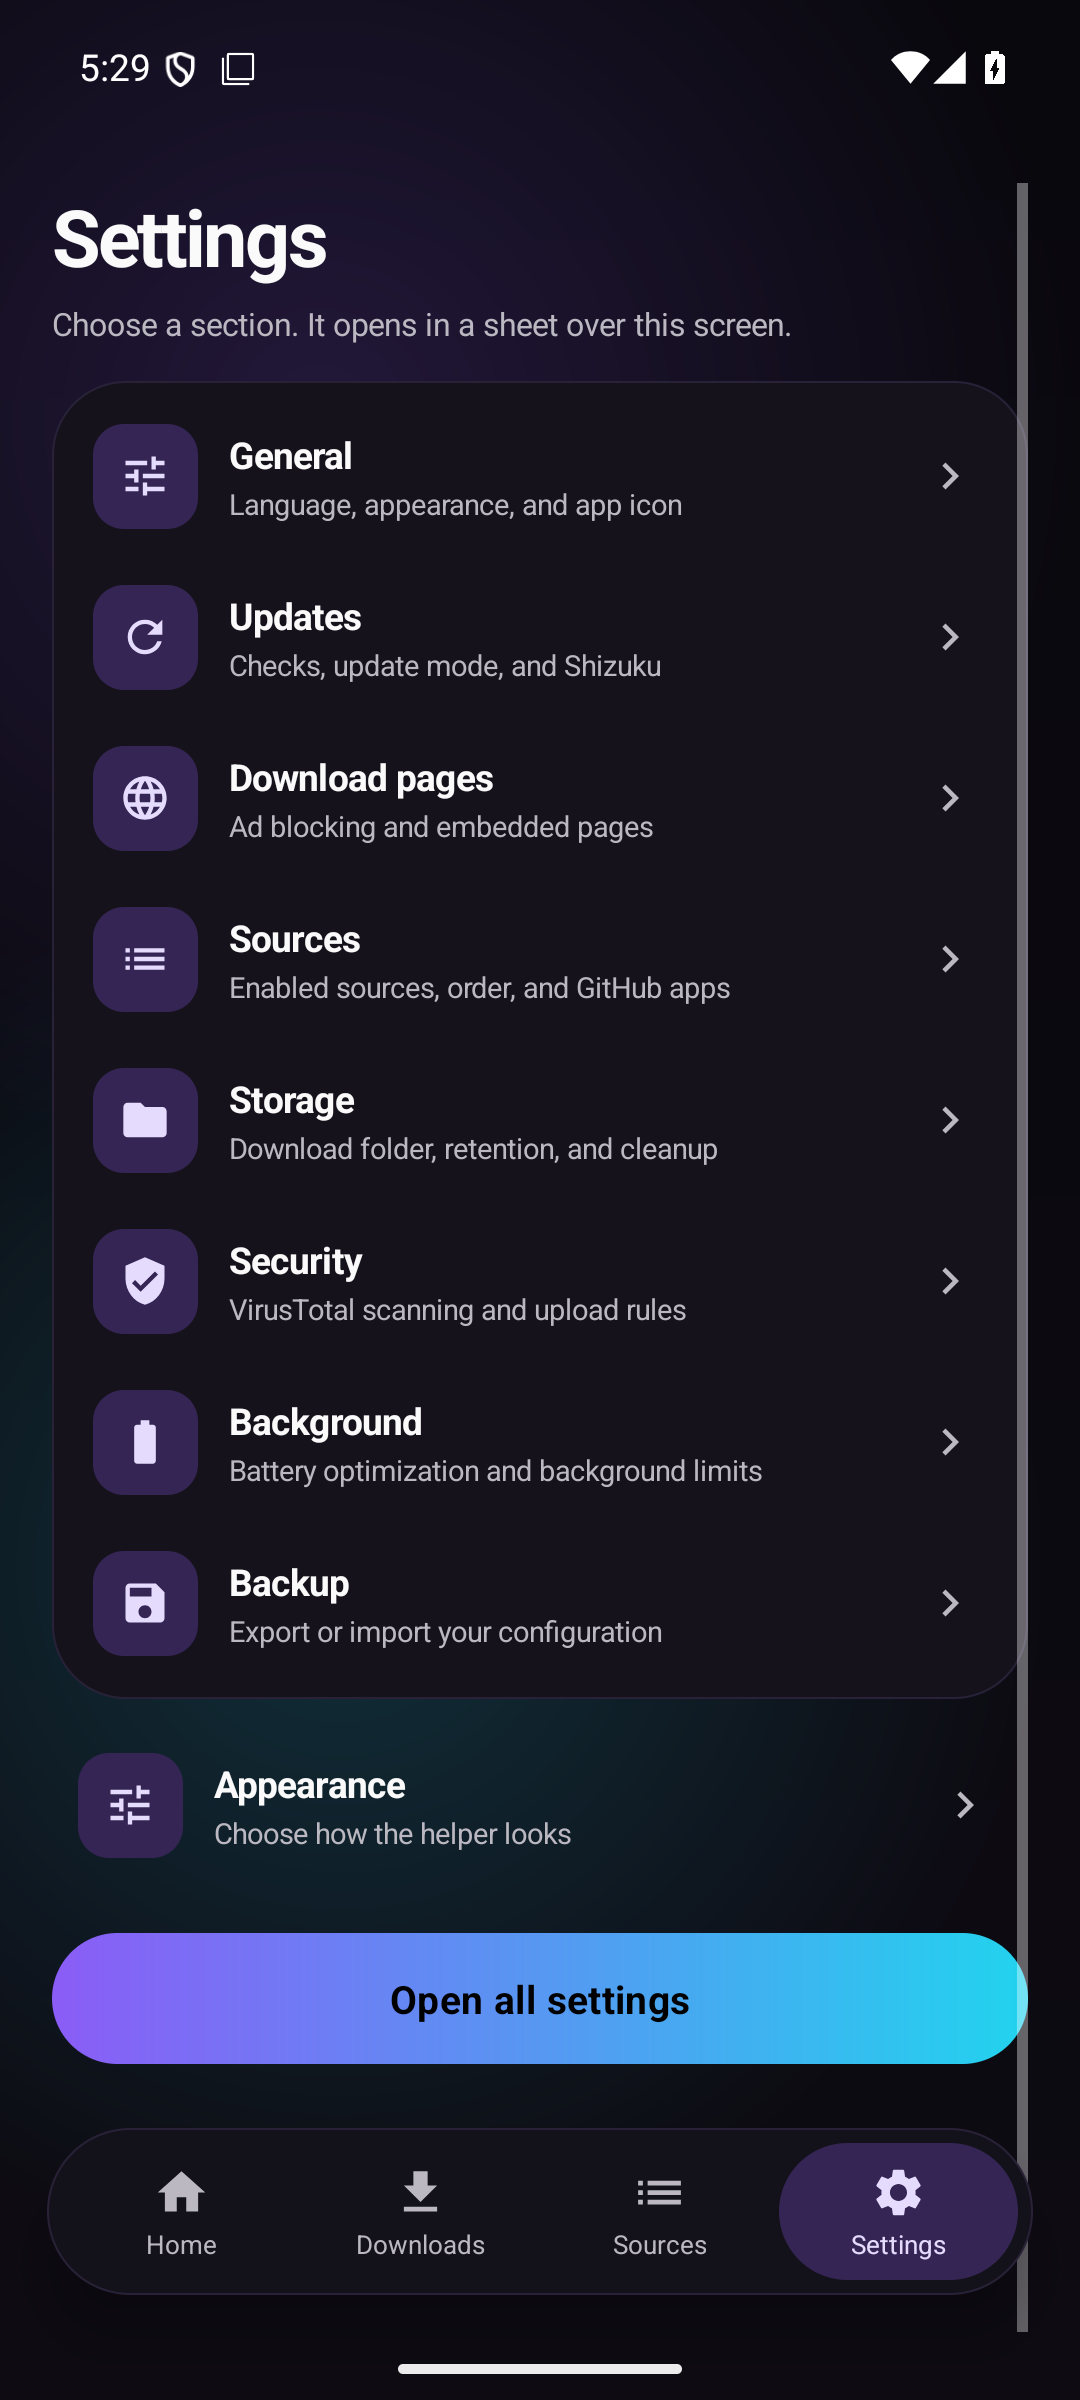
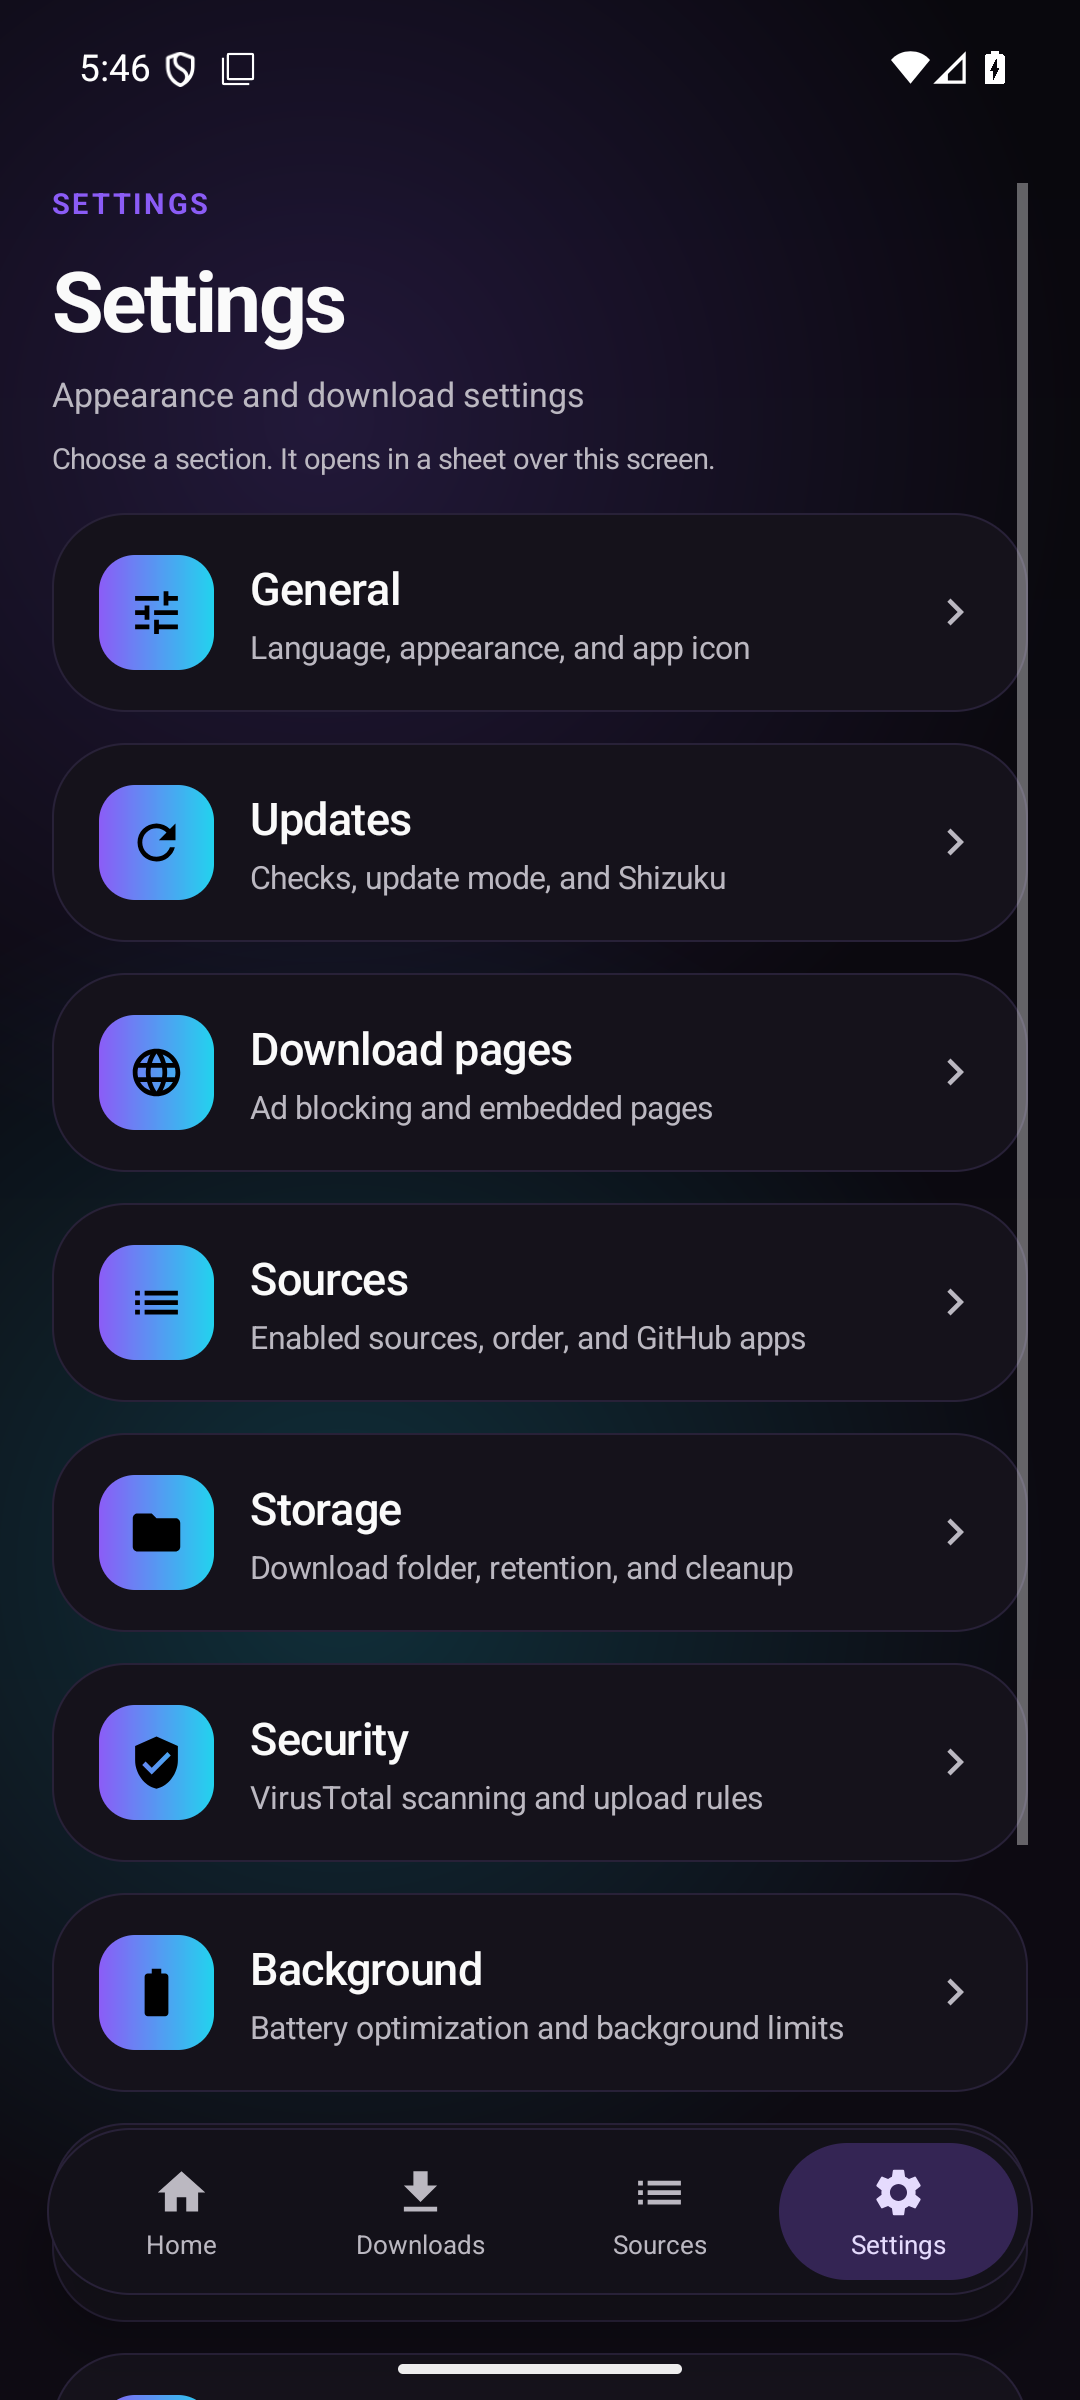
Restyle the in-shell settings tab and drop the open-all shortcut

diff --git a/app/src/main/java/be/alterra/morphehelper/MorphePreviewActivity.java b/app/src/main/java/be/alterra/morphehelper/MorphePreviewActivity.java
@@ -1261,101 +1261,102 @@ public class MorphePreviewActivity extends Activity {
                 ViewGroup.LayoutParams.MATCH_PARENT,
                 ViewGroup.LayoutParams.WRAP_CONTENT));
 
-        root.addView(M3Ui.display(this, getString(R.string.preview_settings), 30, TEXT));
+        root.addView(M3Ui.overline(this,
+                getString(R.string.settings_overline), ACCENT));
+        TextView title = M3Ui.display(this,
+                getString(R.string.preview_settings), 32, TEXT);
+        title.setPadding(0, dp(8), 0, 0);
+        root.addView(title);
+        TextView subtitle = M3Ui.text(this,
+                getString(R.string.settings_subtitle), 13, MUTED, 400);
+        subtitle.setPadding(0, dp(6), 0, 0);
+        root.addView(subtitle);
         TextView hint = M3Ui.text(this,
-                getString(R.string.preview_settings_hint), 12, MUTED, 400);
-        hint.setPadding(0, dp(5), 0, dp(14));
+                getString(R.string.preview_settings_hint), 11, MUTED, 400);
+        hint.setPadding(0, dp(8), 0, dp(2));
         root.addView(hint);
 
-        LinearLayout card = new LinearLayout(this);
-        card.setOrientation(LinearLayout.VERTICAL);
-        card.setPadding(dp(6), dp(6), dp(6), dp(6));
-        card.setBackground(M3Ui.card(this, palette));
-        root.addView(card, new LinearLayout.LayoutParams(
-                ViewGroup.LayoutParams.MATCH_PARENT, ViewGroup.LayoutParams.WRAP_CONTENT));
-
-        addSettingsRow(card, R.drawable.ic_section_general,
+        addSettingsCard(root, R.drawable.ic_section_general,
                 R.string.settings_general, R.string.settings_general_summary,
                 "general");
-        addSettingsRow(card, R.drawable.ic_section_updates,
+        addSettingsCard(root, R.drawable.ic_section_updates,
                 R.string.settings_updates, R.string.settings_updates_summary,
                 "updates");
-        addSettingsRow(card, R.drawable.ic_section_web,
+        addSettingsCard(root, R.drawable.ic_section_web,
                 R.string.settings_web_pages, R.string.settings_web_pages_summary,
                 "web");
-        addSettingsRow(card, R.drawable.ic_section_sources,
+        addSettingsCard(root, R.drawable.ic_section_sources,
                 R.string.settings_sources, R.string.settings_sources_summary,
                 "sources");
-        addSettingsRow(card, R.drawable.ic_section_storage,
+        addSettingsCard(root, R.drawable.ic_section_storage,
                 R.string.settings_storage, R.string.settings_storage_summary,
                 "storage");
-        addSettingsRow(card, R.drawable.ic_section_security,
+        addSettingsCard(root, R.drawable.ic_section_security,
                 R.string.preview_security, R.string.settings_security_summary,
                 "security");
-        addSettingsRow(card, R.drawable.ic_section_battery,
+        addSettingsCard(root, R.drawable.ic_section_battery,
                 R.string.preview_background, R.string.settings_background_summary,
                 "battery");
-        addSettingsRow(card, R.drawable.ic_section_backup,
+        addSettingsCard(root, R.drawable.ic_section_backup,
                 R.string.settings_backup, R.string.settings_backup_summary,
                 "backup");
+        addSettingsActionCard(root, R.drawable.ic_section_general,
+                R.string.preview_settings_appearance,
+                R.string.appearance_subtitle,
+                () -> startActivity(new Intent(this, AppearanceActivity.class)));
 
-        LinearLayout appearanceRow = settingsRow(R.drawable.ic_section_general,
-                getString(R.string.preview_settings_appearance),
-                getString(R.string.appearance_subtitle));
-        appearanceRow.setOnClickListener(v ->
-                startActivity(new Intent(this, AppearanceActivity.class)));
-        LinearLayout.LayoutParams appearanceParams = new LinearLayout.LayoutParams(
-                ViewGroup.LayoutParams.MATCH_PARENT, ViewGroup.LayoutParams.WRAP_CONTENT);
-        appearanceParams.topMargin = dp(10);
-        root.addView(appearanceRow, appearanceParams);
-
-        TextView all = M3Ui.primaryButton(this, palette,
-                getString(R.string.preview_settings_all), 0);
-        all.setOnClickListener(v -> openSettings(null));
-        LinearLayout.LayoutParams allParams = new LinearLayout.LayoutParams(
-                ViewGroup.LayoutParams.MATCH_PARENT, dp(50));
-        allParams.topMargin = dp(18);
-        root.addView(all, allParams);
         addBottomSpacer(root);
         return scroll;
     }
 
-    private void addSettingsRow(LinearLayout card, int iconRes, int titleRes,
-                                int summaryRes, String section) {
-        LinearLayout row = settingsRow(iconRes, getString(titleRes),
-                getString(summaryRes));
-        row.setOnClickListener(v -> openSectionSheet(section));
-        card.addView(row);
+    private void addSettingsCard(LinearLayout root, int iconRes, int titleRes,
+                                 int summaryRes, String section) {
+        addSettingsActionCard(root, iconRes, titleRes, summaryRes,
+                () -> openSectionSheet(section));
     }
 
-    private LinearLayout settingsRow(int iconRes, String title, String summary) {
+    private void addSettingsActionCard(LinearLayout root, int iconRes, int titleRes,
+                                       int summaryRes, Runnable action) {
+        LinearLayout card = new LinearLayout(this);
+        card.setOrientation(LinearLayout.VERTICAL);
+        card.setBackground(M3Ui.card(this, palette));
+        LinearLayout.LayoutParams cardParams = new LinearLayout.LayoutParams(
+                ViewGroup.LayoutParams.MATCH_PARENT, ViewGroup.LayoutParams.WRAP_CONTENT);
+        cardParams.topMargin = dp(12);
+        root.addView(card, cardParams);
+        card.addView(settingsCardHeader(iconRes, getString(titleRes),
+                getString(summaryRes), action));
+    }
+
+    private LinearLayout settingsCardHeader(int iconRes, String title, String summary,
+                                            Runnable action) {
         LinearLayout row = new LinearLayout(this);
         row.setOrientation(LinearLayout.HORIZONTAL);
         row.setGravity(Gravity.CENTER_VERTICAL);
-        row.setPadding(dp(10), dp(11), dp(8), dp(11));
+        row.setPadding(dp(18), dp(16), dp(12), dp(16));
         row.setBackground(new RippleDrawable(ColorStateList.valueOf(palette.ripple),
                 null, null));
         row.setClickable(true);
         row.setFocusable(true);
+        row.setOnClickListener(v -> action.run());
 
         FrameLayout iconTile = new FrameLayout(this);
-        iconTile.setBackground(M3Ui.filled(this,
-                M3Ui.primaryContainer(palette), 12, 0, 0));
+        iconTile.setBackground(M3Ui.brandGradient(this, palette, 14));
         ImageView icon = new ImageView(this);
         icon.setImageResource(iconRes);
-        icon.setColorFilter(M3Ui.onPrimaryContainer(palette));
-        FrameLayout.LayoutParams iconInner = new FrameLayout.LayoutParams(dp(20), dp(20));
+        icon.setColorFilter(palette.onPrimary);
+        FrameLayout.LayoutParams iconInner = new FrameLayout.LayoutParams(dp(22), dp(22));
         iconInner.gravity = Gravity.CENTER;
         iconTile.addView(icon, iconInner);
-        LinearLayout.LayoutParams iconParams = new LinearLayout.LayoutParams(dp(40), dp(40));
-        iconParams.setMarginEnd(dp(12));
+        LinearLayout.LayoutParams iconParams = new LinearLayout.LayoutParams(dp(44), dp(44));
+        iconParams.setMarginEnd(dp(14));
         row.addView(iconTile, iconParams);
 
         LinearLayout labels = new LinearLayout(this);
         labels.setOrientation(LinearLayout.VERTICAL);
-        labels.addView(M3Ui.text(this, title, 14, TEXT, 600));
-        TextView detail = M3Ui.text(this, summary, 11, MUTED, 400);
-        detail.setPadding(0, dp(2), 0, 0);
+        labels.addView(M3Ui.title(this, title, 17, TEXT));
+        TextView detail = M3Ui.text(this, summary, 12, MUTED, 400);
+        detail.setPadding(0, dp(3), 0, 0);
         labels.addView(detail);
         row.addView(labels, new LinearLayout.LayoutParams(
                 0, ViewGroup.LayoutParams.WRAP_CONTENT, 1f));

diff --git a/app/src/androidTest/java/be/alterra/morphehelper/MorphePreviewTest.java b/app/src/androidTest/java/be/alterra/morphehelper/MorphePreviewTest.java
@@ -6,6 +6,7 @@ import static org.junit.Assert.assertTrue;
 
 import android.app.Activity;
 import android.content.Context;
+import android.os.SystemClock;
 import android.view.View;
 import android.view.ViewGroup;
 import android.widget.TextView;
@@ -141,24 +142,44 @@ public class MorphePreviewTest {
         try (ActivityScenario<MorphePreviewActivity> scenario =
                      ActivityScenario.launch(MorphePreviewActivity.class)) {
             scenario.onActivity(activity -> clickTab(activity, "Settings"));
+            waitForTabSlide();
             scenario.onActivity(activity -> clickTab(activity, "Storage"));
-            InstrumentationRegistry.getInstrumentation().waitForIdleSync();
+            SettingsActivity settings = awaitSettingsActivity();
+            assertNotNull("SettingsActivity was not resumed", settings);
+            assertTrue("Section sheet did not use sheet-only mode",
+                    settings.getIntent().getBooleanExtra(
+                            SettingsActivity.EXTRA_SHEET_ONLY, false));
+            settings.finish();
+        }
+    }
+
+    private static SettingsActivity awaitSettingsActivity() {
+        long deadline = SystemClock.uptimeMillis() + 3000L;
+        while (SystemClock.uptimeMillis() < deadline) {
+            final SettingsActivity[] found = new SettingsActivity[1];
             InstrumentationRegistry.getInstrumentation().runOnMainSync(() -> {
                 Collection<Activity> resumed = ActivityLifecycleMonitorRegistry
                         .getInstance().getActivitiesInStage(Stage.RESUMED);
-                SettingsActivity settings = null;
                 for (Activity activity : resumed) {
                     if (activity instanceof SettingsActivity) {
-                        settings = (SettingsActivity) activity;
-                        break;
+                        found[0] = (SettingsActivity) activity;
+                        return;
                     }
                 }
-                assertNotNull("SettingsActivity was not resumed", settings);
-                assertTrue("Section sheet did not use sheet-only mode",
-                        settings.getIntent().getBooleanExtra(
-                                SettingsActivity.EXTRA_SHEET_ONLY, false));
-                settings.finish();
             });
+            if (found[0] != null) {
+                return found[0];
+            }
+            SystemClock.sleep(100L);
+        }
+        return null;
+    }
+
+    private static void waitForTabSlide() {
+        try {
+            Thread.sleep(350);
+        } catch (InterruptedException ignored) {
+            Thread.currentThread().interrupt();
         }
     }
 

diff --git a/docs/V3_DESIGN.md b/docs/V3_DESIGN.md
@@ -106,10 +106,10 @@ The branch now implements the first pass of phases 1–5:
 - Downloads: persisted hand-off history plus current APKs from the cache and
   public `Downloads/Morphe Helper` folder.
 - Sources: live enabled state and order from `SourceSettings`.
-- Settings: the tab stays inside the shell. Each row opens its section as a
-  transparent sheet host over the shell, so the main screen never disappears.
-  The sheet handle drags down to dismiss; a short drag springs back. **Open all
-  settings** still opens the full restyled screen.
+- Settings: the tab stays inside the shell and uses the same Morphe header,
+  gradient tiles, and separate section cards as the full screen. Each row opens
+  its section as a transparent sheet host over the shell; the handle drags down
+  to dismiss, and a short drag springs back.
 - Appearance: **Design** selector (Classic / Morphe) and a direct shell action.
 
 The shell remains a separate activity rather than a rewrite of MainActivity, so
